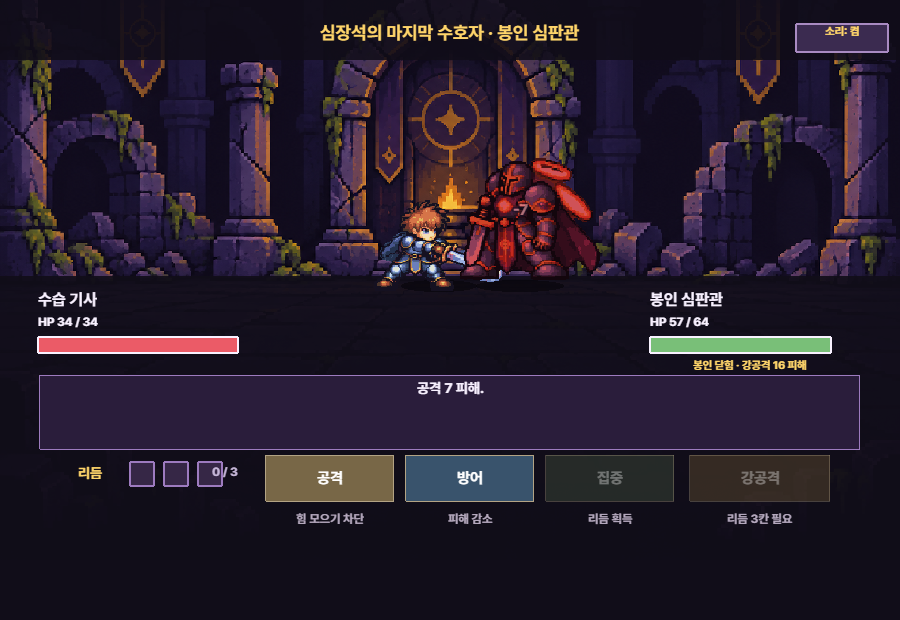
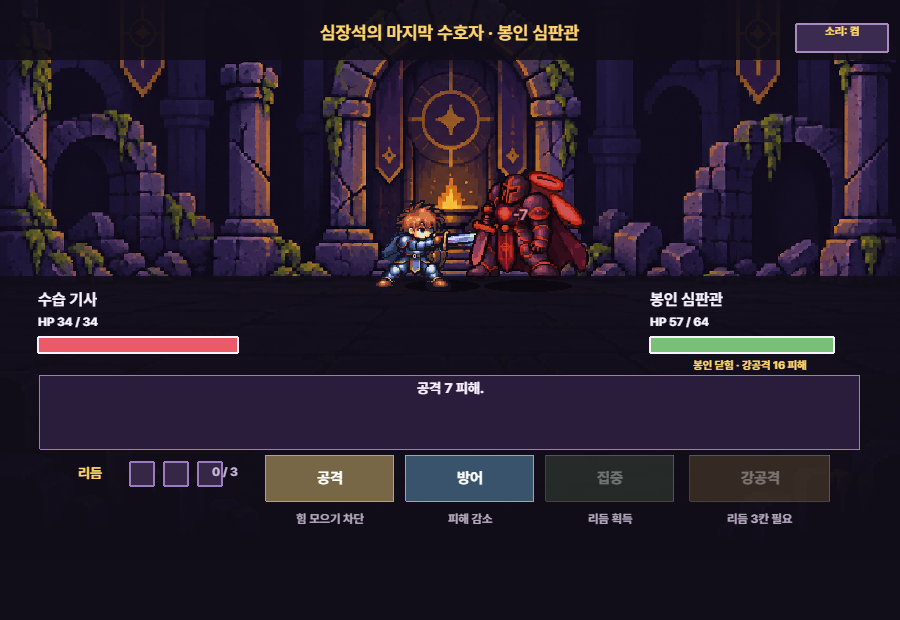
Differentiate heavy strikes and preserve equipment through hit reactions

Changed region(s): [[0.4044, 0.2452, 0.6844, 0.4597], [0.9022, 0.5516, 0.9333, 0.5823]]

diff --git a/sprite-art.js b/sprite-art.js
@@ -18,7 +18,8 @@ function prepareCombatArt(scene) {
   const colors = new Map();
   for (const [key, layout] of Object.entries(layouts)) {
     const source = scene.textures.get(key).getSourceImage();
-    const display = key.startsWith('seal-') ? 210 : key.startsWith('orc-') ? 178 : 164;
+    const viewport = corrections[key]?.viewport;
+    const display = viewport?.display || (key.startsWith('seal-') ? 210 : key.startsWith('orc-') ? 178 : 164);
     const grid = Math.round(display / 1.25);
     const anchors = layout.frames[0].map(([x, , w]) => x + w / 2);
     const heights = layout.frames[0].map(frame => frame[3]).sort((a, b) => a - b);
@@ -28,6 +29,15 @@ function prepareCombatArt(scene) {
       right = Math.max(right, x + w - anchors[col]);
       maxHeight = Math.max(maxHeight, h);
     }));
+    if (viewport) for (const [row, correction] of Object.entries(corrections[key])) {
+      if (row === 'viewport') continue;
+      const ratio = heights[2] / correction.bodyHeight;
+      correction.frames.forEach(([x, , w, h], col) => {
+        left = Math.min(left, (x - correction.anchors[col]) * ratio + correction.baseOffset);
+        right = Math.max(right, (x + w - correction.anchors[col]) * ratio + correction.baseOffset);
+        maxHeight = Math.max(maxHeight, h * ratio);
+      });
+    }
     // 모든 동작에 같은 배율을 적용해 머리와 무기가 프레임마다 커지는 현상을 막는다.
     const scale = Math.min(grid * .67 / heights[2], grid * .84 / (right - left), grid * .8 / maxHeight);
     const anchor = (grid - (right - left) * scale) / 2 - left * scale;
@@ -68,14 +78,15 @@ function prepareCombatArt(scene) {
     }));
     scene.textures.remove(key);
     scene.textures.addCanvas(key, packed).setFilter(Phaser.Textures.FilterMode.NEAREST);
-    audit[key] = { source: layout.generationSource, frames: stats, paletteSize: COMBAT_PALETTE.length };
+    audit[key] = { source: layout.generationSource, frames: stats, paletteSize: COMBAT_PALETTE.length, display, originX: viewport?.alignBody ? anchor / grid : .5 };
   }
   scene.registry.set('combatArtAudit', audit);
 }
 
 function combatFrames(key, row) {
   const resting = key.startsWith('kobold') ? [1, 2, 3, 2] : [0, 1, 3, 1];
-  const order = row === 'down' ? resting : row === 'guard' ? [0, 1] : [0, 1, 2, 3];
+  const restrainedHurt = row === 'hurt' && key.startsWith('goblin');
+  const order = row === 'down' ? resting : row === 'guard' ? [0, 1] : restrainedHurt ? [0, 2, 3] : [0, 1, 2, 3];
   const holds = row === 'heavy' ? [200, 260, 100, 100] : row === 'attack' ? [100, 160, 120, 80] : row === 'hurt' ? [40, 150, 100, 40] : [];
   return order.map(col => ({ key, frame: `${row}-${col}`, duration: holds[col] || 0 }));
 }

diff --git a/game.js b/game.js
@@ -224,6 +224,7 @@ class BootScene extends Phaser.Scene {
     this.load.json('combat-atlas-layout', 'assets/combat-atlas-layout.json');
     this.load.json('combat-row-corrections', 'assets/combat-row-corrections.json');
     this.load.image('combat-pose-corrections', 'assets/combat-pose-corrections.png');
+    this.load.image('combat-heavy-corrections', 'assets/combat-heavy-corrections.png');
     this.load.image('shrine-kit', 'assets/shrine-kit.png');
     this.load.image('characters', 'assets/characters.png');
     this.load.image('skeleton-shrine-keeper', 'assets/skeleton-shrine-keeper.png');
@@ -618,8 +619,9 @@ class BattleScene extends Phaser.Scene {
     this.enemyName.setText(enemy.displayName);
     this.stopEnemyDownMotion();
     if (this.enemyFigure) this.enemyFigure.destroy();
+    const art = this.registry.get('combatArtAudit')?.[enemy.sprite.texture];
     this.enemyFigure = enemy.combatSheet
-      ? this.add.sprite(enemy.sprite.x, enemy.sprite.y, enemy.sprite.texture, enemy.sprite.frame).setOrigin(.5, .9286).setScale(enemy.sprite.scale / 280).setFlipX(enemy.sprite.flipX).play(`${enemy.combatAnimKey}-idle`)
+      ? this.add.sprite(enemy.sprite.x, enemy.sprite.y, enemy.sprite.texture, enemy.sprite.frame).setOrigin(art?.originX ?? .5, .9286).setScale((art?.display || enemy.sprite.scale) / 280).setFlipX(enemy.sprite.flipX).play(`${enemy.combatAnimKey}-idle`)
       : pixelSprite(this, enemy.sprite.x, enemy.sprite.y, enemy.sprite.texture, enemy.sprite.frame, enemy.sprite.scale).setFlipX(enemy.sprite.flipX);
     this.goblinBasePose = enemy.id === 'goblin'
       ? { x: this.enemyFigure.x, y: this.enemyFigure.y, scaleX: this.enemyFigure.scaleX, scaleY: this.enemyFigure.scaleY, angle: this.enemyFigure.angle }
@@ -692,7 +694,7 @@ class BattleScene extends Phaser.Scene {
     this.time.delayedCall(emphatic ? 280 : 180, () => {
       if (figure?.active) figure.clearTint();
     });
-    if (knockback) this.tweens.add({ targets: figure, x: figure.x + (side === 'player' ? -8 : 8), duration: emphatic ? 55 : 75, yoyo: true, repeat: emphatic ? 2 : 1 });
+    if (knockback) this.tweens.add({ targets: figure, x: figure.x + (side === 'player' ? -1 : 1) * (emphatic ? 12 : 8), duration: 70, yoyo: true, hold: 80, ease: 'Cubic.Out' });
   }
 
   showGuard(side, emphatic = false) {
